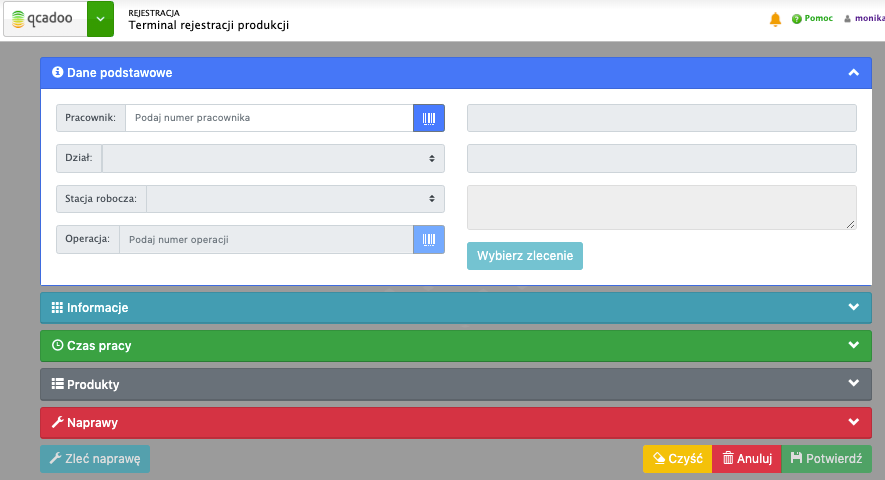
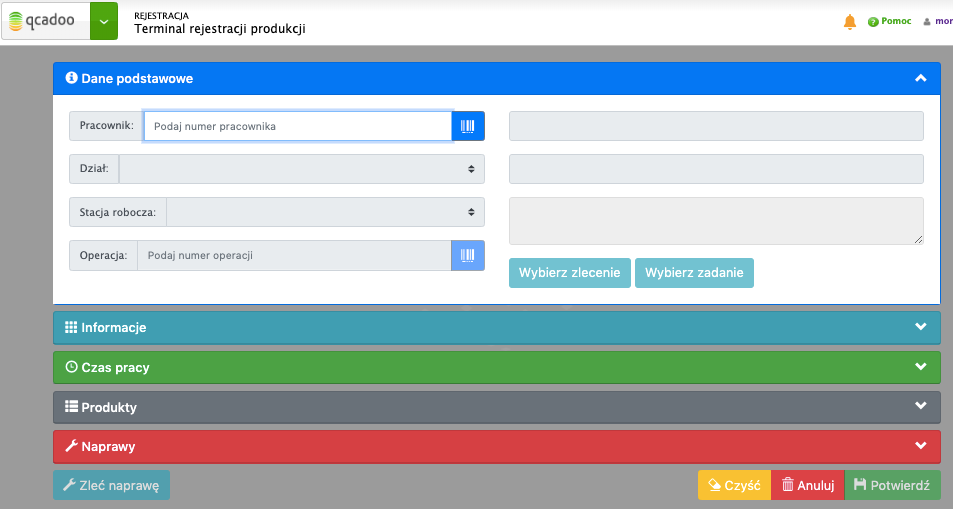
add processes and operational tasks

diff --git a/pages/przykladowe-procesy/zuzycie-materialow.md b/pages/przykladowe-procesy/zuzycie-materialow.md
@@ -1,0 +1,86 @@
+---
+title: "Zużycie materiałów pod zlecenie produkcyjne"
+permalink: zuzycie-materialow.html 
+---
+
+Materiały zużywane w trakcie produkcji są często sporym narzutem kosztowym całego procesu. Często zarządzanie materiałami stanowi nie lada wyzwanie - nie wiadomo jakie surowce będą potrzebne, na kiedy, gdzie należy je wydać, kto i ile zużył i ile w sumie nas to kosztowało. Sporo tematów do opanowania. Na szczęście qcadoo MES wesprze Cię w każdym elemencie.
+
+Opisany proces zakłada, że magazyn surowców i magazyny produkcyjne są odseparowane. Zanim pracownik produkcyjny rozpocznie prace - magazynier przesuwa odpowiednie surowce na dział. Posłużą do tego wydania wewnętrzne - w parametrach ustawione są takie wartości:
+
+{% include lightbox.html file="procesyZuzycieMaterialowParametryWydan.png" alt="Parametry wydań wewnętrznych" caption="Parametry wydań wewnętrznych" %}
+
+Zacznijmy zatem przykład od ustalenia jakie zlecenia produkcyjne będziesz wykonywać. [Lista otwartych zleceń](/planowanie-zlecen) jest następująca:
+
+{% include lightbox.html file="procesyZuzycieMaterialowListaZlecen.png" alt="Lista zleceń produkcyjnych" caption="Lista otwartych produkcyjnych" %}
+
+Do tych zleceń [potrzebne będą następujące surowce](/pokrycie-zapotrzebowania):
+
+{% include lightbox.html file="procesyZuzycieMaterialowPokrycie.png" alt="Lista potrzebnych do produkcji surowców" caption="Lista potrzebnych do produkcji surowców" %}
+
+Widać, że masz wystarczającą ilość produktów, aby zacząć realizację zleceń. Skąd magazynier ma wiedzieć **jakie produkty i na kiedy** ma przygotować?
+
+Wygenerujemy dla Ciebie wydanie wewnętrzne na tyle dni przed rozpoczęciem zlecenia, ile ustawisz w [parametrach](/parametry-zaopatrzenie.html#wydania-wewnętrzne). Najwygodniejszą listą do pracy magazyniera jest widok [produktów do wydania wewnętrznego](/produkty-do-wydania-wewnetrznego).
+
+{% include lightbox.html file="procesyZuzycieMaterialowProduktyDoWydaniaWewn.png" alt="Produkty do wydania wewnętrznego" caption="Produkty do wydania wewnętrznego" %}
+
+Użyj filtrowania po magazynie i dacie - a dowiesz się co, gdzie i w jakiej ilości masz dziś przesunąć. 
+
+{% include callout.html content="Jeśli w profilu użytkownika przypiszesz sobie magazyn, to w liście od razu będą widoczne planowane przesunięcia z Twojego magazynu" type="warning" %}
+
+Możesz **posortować / przefiltrować po produkcie** - dzięki temu przygotujesz od razu cały materiał pod wszystkie dziś rozpoczynane zlecenia.
+Możesz **posortować / przefiltrować po miejscu składowania** - dzięki temu zminimalizujesz bezcelowe spacery po magazynie.
+Możesz **posortować / przefiltrować po magazynie docelowym** - dzięki temu od razu możesz przyszykować wózek na dany magazyn i jechać z nim tylko raz.
+Możesz **posortować / przefiltrować po dacie (i godzinie) rozpoczęcia zlecenia** i wydawać w kolejności w jakiej zadania będą realizowane.
+Jak widać - możliwości wiele. Możesz dostowować działanie do swoich potrzeb.
+
+Jak już wiesz co chcesz wydawać i chcesz zarejestrować wydanie, zaznacz produkty w tabeli i kliknij {% include inline_image.html file="przyciskKopiujProduktyDoWydania.png" alt="Kopiuj produkty do wydania" %} **Kopiuj produkty do wydania** i ewentualnie popraw dane (np. ilość - bo przecież nawet jak pod zlecenie potrzebne jest 10 ml farby, to i tak wydasz całą puszkę) i wydaj (używając przycisku {% include inline_image.html file="przyciskWydaj.png" alt="Wydaj" %} **Wydaj**). W efekcie powstaną [dokumenty](/dokumenty) MM lub para WZ - PZ (w zależności od tego co ustawisz w parametrach):
+
+{% include lightbox.html file="procesyZuzycieMaterialowDokument.png" alt="Utworzony dokument MM" caption="Utworzony dokument MM" %}
+
+{% include lightbox.html file="procesyZuzycieMaterialowPozycjeDokumentow.png" alt="Pozycje utworzonego dokumentu MM" caption="Pozycje utworzonego dokumentu MM" %}
+
+a **stany magazynowe zostały odpowiednio ukształtowane**. Magazyn działowy zasilony - produkcja ma z czego wytwarzać wyroby. 
+
+Aby zaewidencjonować **co faktycznie zostało zużyte**, trzeba wprowadzić meldunek - albo wprost z listy [rekordów rejestracji](/rejestracja-produkcji) albo korzystając z [terminala](/terminal). 
+
+{% include lightbox.html file="procesyZuzycieMaterialowRR.png" alt="Zaraportowanie zużytego materiału do zlecenia" caption="Zaraportowanie zużytego materiału do zlecenia" %}
+
+Możesz ręcznie podawać ilość zużytą dla każdego zaplanowanego do zlecenia produktu. Ale możesz też zaznacz [parametr](/parametry-rejestracja-produkcji) Zużycie surowców na podstawie norm, a ilość będzie wyliczona po wprowadzeniu ilości wyprodukowanej (do wyliczeń wykorzystamy dane wprowadzone w technologii). Możesz też użyć przycisku kopiowania ilości planowanej do podanych - przydatne przy założeniu, że całą zleconą ilość produkujesz od razu, bez dzielenia na etapy.
+
+W kolejnym kroku konieczne jest zaakceptowanie rekordu rejestracji - co się stanie? Do podanych zużytych ilości **utworzymy dokument (lub dokumenty) RW**. Od razu zaakceptowane, aktualizujące stan magazynowy.
+
+Dokument RW zawiera informacje o:
+- zużytych produktach,§
+- ilości zużytych produktów,
+- magazynie, z którego nastąpił rozchód,
+- dobranych, na podstawie metody wyceny określonej w magazynie, zasobach,
+- atrybutach zasobu, takich jak: cena, data ważności, data produkcji, nr partii, miejsce składowania, nr palety itp.
+- zleceniu, na rzecz którego realizowane były prace.
+
+{% include lightbox.html file="procesyZuzycieMaterialowPozycjeDokumentowRW.png" alt="Pozycje utworzonego dokumentu RW" caption="Pozycje utworzonego dokumentu RW" %}
+
+Efekty zużycia materiałów możesz prześledzić też z poziomu samego zlecenia produkcyjnego. Wchodząc w {% include inline_image.html file="iconProducts24.png" alt="postęp produkcji" %} **Ilości wyprodukowane/ zużyte** ustalisz co na danym etapie zostało już zużyte i wyprodukowane. 
+
+{% include lightbox.html file="procesyZuzycieMaterialowPostepProdukcji.png" alt="Ogólny postęp produkcji" caption="Ogólny postęp produkcji" %}
+
+Przechodząc krok dalej, w: {% include inline_image.html file="genealogyIcon24.png" alt="szczegółowe zapotrzebowanie" %} **Szczegółowe zapotrzebowanie i postęp** będziesz mógł przeanalizować zużycie z dokładnością do operacji (a także zmienić planowane zużycie, np. wprowadzając zamienniki - ale o tym więcej przeczytasz [tutaj](/zmiana-stanu-zapotrzebowania)).
+
+{% include lightbox.html file="procesyZuzycieMaterialowSzczegoloweZapotrzebowanie.png" alt="Szczegółowe zapotrzebowanie i postęp" caption="Szczegółowe zapotrzebowanie i postęp" %}
+
+O zużytych ilościach surowców pod dane zlecenie wiesz już niemal wszystko. Do pełnego obrazu brakuje Ci jeszcze cen pobranych zasobów. Owszem - analizując dokumenty takie informacje można wyciągnąć. Jednak dane te możesz wyciągnąć też z poziomu zlecenia produkcyjnego. Wejdź w: {% include inline_image.html file="calculateTimeIcon24.png" alt="Przycisk kalkulacji" %} **[Ceny](/ceny-materialow-dla-zlecenia)**
+
+{% include lightbox.html file="procesyZuzycieMaterialowCenyMaterialow.png" alt="Ceny materiałów zużywanyh w zleceniu" caption="Ceny materiałów zużywanyh w zleceniu" %}
+
+Jakie informacje możesz tutaj uzyskać? Przede wszystkim różne ujęcia cen - ustalisz zapisane w [produktach](/produkty) ceny ostatniego zakupy czy średnio ważone, a także faktyczne ceny zasobów zużytych na rzecz danego zlecenia (kolumna: cena dla zlecenia). Wchodząc w szczegóły produktu w tabeli zobaczysz także wystawione dokumenty RW (zarówno w qcadoo jak i w systemie zewnętrznym).
+
+Została do omówienia wisienka na torcie - [rozliczenie produkcji](//rozliczenie-produkcji). W raporcie kosztom materiałów został poświęcony osobny **arkusz Koszty materiałów**:
+
+{% include lightbox.html file="procesyZuzycieMaterialowRozliczenieProdukcjiKosztyMaterialow.png" alt="Koszty materiałów w rozliczeniu produkcji" caption="Koszty materiałów w rozliczeniu produkcji" %}
+
+Dowiesz się tutaj jakie produkty miały być zużyte i w jakich ilościach, wraz z porównaniem faktycznego zużycia zarejestrowanego po produkcji. Ustalisz i porównasz koszt planowany z kosztem rzeczywistym. Wyliczone zostaną też odchylenia ilościowe i wartościowe.
+
+Poniesiony koszt zużycia materiałów będzie wykorzystany w rozliczeniu całkowitych kosztów zlecenia, w arkuszach:
+- rozliczenie do zleceń,
+- rozliczenie z uwzględnieniem komponentów, 
+- rozliczenie do wyrobu.
+

diff --git a/pages/planowanie/planowanie-operacyjne.md b/pages/planowanie/planowanie-operacyjne.md
@@ -1,0 +1,99 @@
+---
+title: "Planowanie operacyjne"
+permalink: planowanie-operacyjne.html 
+---
+
+W qcadoo obsługiwane są dwa podejścia do planowania. Pierwsze zakłada, że planujemy całe [zlecenia produkcyjne](/zlecenia-produkcyjne), przypisując je do [linii](/linie-produkcyjne). W tym podejściu wszystkie operacje wykonywane są po kolei, bez możliwości odłożenia w czasie realizacji części czynności. Drugie podejście zakłada planowanie każdej operacji zlecenia osobno. Operacje przypisywane są do [stacji roboczych](/stacje-robocze) i/lub do [pracowników](/pracownicy). I to one układane są czasowo oraz raportowane. Odzwierciedleniem zaplanowanej operacji jest zadanie operacyjne. Zadanie operacyjne to element planowania operacyjnego. I właśnie o nich będzie opowiadała ta strona dokumentacji.
+
+Aby przejrzeć listę zadań operacyjnych wejdź w **Planowanie > Planowanie operacyjne**:
+
+{% include lightbox.html file="planowaniePlanowanieOperacyjneLista.png" alt="Lista zadań operacyjnych" caption="Lista zadań operacyjnych" %}
+
+Zadania operacyjne mają dwa typy:
+- wykonanie operacji w zleceniu - powiązane jest z konkretną operacją wynikającą z drzewa technologii użytej w zleceniu
+- inne zadanie - jest dodatkowym zadaniem, które powierzamy pracownikowi
+
+Zadania operacyjne będące wykonaniem operacji w zleceniu mogą być wprowadzone na 3 sposoby:
+1. ręcznie
+2. poprzez zatwierdzenie planu na stację i pracownika
+3. poprzez utworzenie planu operacyjnego z kalkulacji czasochłonności zlecenia
+
+Inne zadania mogą być wprowadzane tylko ręcznie.
+
+
+## Ręczne dodawanie zadań operacyjnych
+
+{% include lightbox.html file="planowaniePlanowanieOperacyjneNowe.png" alt="Dodanie nowego zadania operacyjnego" caption="Dodanie nowego zadania operacyjnego" class="float-right" %}
+
+Aby dodać nowe zadanie operacyjne wejdź w Planowanie > Planowanie operacyjne i kliknij {% include inline_image.html file="newIcon24.png" alt="Przycisk Dodaj nowe" %} **Dodaj nowy**. 
+
+Rozpocznij od wskazania **typu zadania** - to on uwarunkuje aktywność pozostałych pól. Jeśli chcesz zaplanować realizację czynności ze zlecenia, to **wskaż _typ = wykonanie operacji w zleceniu_**. Podaj następnie:
+- _zlecenie produkcyjne_ - lista zleceń jest ograniczona do tych raportowanych z dokładnością do operacji. Wskaż to zlecenie, które chcesz rozpisać na zadania operacyjne
+- _operacja w drzewie_ - wskaż operację z technologii, którą używać będziesz we wskazanym wyżej zleceniu. Każda operacja powinna mieć swoje zadanie - aby pracownicy wiedzieli jakie czynności mają zostać wykonane
+- _data rozpoczęcia_ i _data zakończenia_ - zaplanuj w jakim okresie zadanie ma zostać zrealizowane
+- _pracownik_ - możesz wskazać, kto ma się zająć zadaniem
+- _stacja robocza_ - możesz wskazać na jakiej stacji roboczej (czy to maszynie czy stanowisku) zadanie ma być wykonywane
+
+Na podstawie wskazanego zlecenia produkcyjnego uzupełnią się:
+- linia produkcyjna
+- ilości: planowana, wyprodukowana
+- procent wykonania
+
+{% include callout.html content="Jeśli zadanie operacyjne wystawione ręcznie jest przypisane do zlecenia produkcyjnego o statusie oczekujące, to ilości nie będą wypełnione. Uzupełnią się dopiero po akceptacji zlecenia produkcyjnego." type="warning" %}
+
+Na podstawie operacji natomiast uzupełni się:
+- nazwa
+- opis
+
+Numer zadania zostanie nadany automatycznie.
+
+---
+
+{% include lightbox.html file="planowaniePlanowanieOperacyjneNoweInne.png" alt="Dodanie nowego zadania operacyjnego o typie inne zadanie" caption="Dodanie nowego zadania operacyjnego o typie inne zadanie" class="float-right" %}
+
+Jeśli **wprowadzasz zadanie o typie: _inne zadanie_**, to wypełnij następujące pola:
+- _nazwa_ - określ co pracownik ma wykonać
+- _opis_ - możesz wprowadzić szczegółowe informacje o czynności do wykonania
+- _pracownik_ - wskaż kto ma zająć się danym zadaniem
+- _data rozpoczęcia_ i _data zakończenia_ - określ w jakim czasie zadanie ma zostać wykonane.
+
+Numer zadania operacyjnego zostanie nadany automatycznie.
+
+## Dodawanie zadań przez zatwierdzenie planu 
+
+Efektem planu na stację roboczą i pracownika, jest utworzenie zadań operacyjnych. Zadania są odpowiednio ułożone czasowo i mają przypisaną stację roboczą i pracownika. Z poziomu planu tworzą się tylko zadania powiązane ze zleceniem produkcyjnym.
+
+## Dodawanie zadań z poziomu kalkulacji czasochłonności zlecenia
+
+Z poziomu zlecenia produkcyjnego możesz przeprowadzić [kalkulację czasochłonności](/czasochlonnosc-zlecenia). Funkcja przeliczy (na podstawie norm technologii) jak długo będą trwały poszczególne operacje, a także ułoży je czasowo zgodnie z drzewem technologii. Do tak przygotowanych wyliczeń można utworzyć plan operacyjny. Jak tego dokonać?
+
+Wejdź w zlecenie produkcyjne, podaj datę rozpoczęcia i wybierz {% include inline_image.html file="iconProducts24.png" alt="Czasochłonność" %} **Czasochłonność**. Wygeneruj kalkulację i kliknij {% include inline_image.html file="przyciskUtworzZSymulacjiPlanOperacyjny.png" alt="Utwórz plan operacyjny" %} **Utwórz z symulacji plan operacyjny**. Zadania operacyjne zostaną założone.
+
+Czym różnią się zadania operacyjne pochodzące z planu od zadań z czasochłonności zlecenia? Plan na stację i pracownika wyodrębnia zadania do wykonania i przypisuje je do stacji roboczych i pracowników. Ponadto - ustawiając daty realizacji uwzględnia istniejące zadania, dzięki temu unika realizacji wielu zadań w jednym czasie. Natomiast plan operacyjny z kalkulacji czasochłonności ogranicza się do wyodrębnienia operacji i nadania im dat rozpoczęcia i zakończenia, jednak bez próby ustalenia, czy coś w tym samym czasie jest zaplanowane do realizacji. 
+
+## Statusy zadań operacyjnych
+
+Zadania operacyjne mogą przyjmować 4 statusy:
+- oczekujące
+- rozpoczęte
+- zakończone
+- odrzucone
+
+Nowe zadanie otrzymuje status oczekujące. W momencie rozpoczynania zlecenia produkcyjnego statusy wszystkich powiązanych zadań zmieniają się na rozpoczęte. W momencie zakańczania zlecenia produkcyjnego - jego zadania operacyjne również są zakończone. Status odrzucone nadawany jest w momencie odrzucenia planu na stację i pracownika.
+
+Do danej operacji zlecenia produkcyjnego może istnieć tylko jedno zadanie operacyjne o statusie innym niż odrzucone.
+
+---
+
+## Śledzenie postępu produkcji
+
+Wykonanie zadania operacyjnego może być raportowane z poziomu [terminala](/terminal) - wybierając z listy przypisane pracownikowi zadanie, albo z poziomu Rejestracja > [Rejestracja produkcji](/rejestracja-produkcji), wybierając operację zlecenia. Zadeklarowana ilość wyprodukowana będzie widoczna w zadaniu. Spowoduje to ponadto przeliczenie wykonania procentowego.
+
+{% include lightbox.html file="planowaniePlanowanieOperacyjneWykonanoKolor.png" alt="Oznaczenie kolorem wykonania procentowego w zadaniach operacyjnych" caption="Oznaczenie kolorem wykonania procentowego w zadaniach operacyjnych" %}
+
+Kolumna Wykonano % może zostać oznaczona kolorami. Stosujemy trzy kolory:
+- <span style="color:red"> czerwony</span> - oznacza, że jeszcze nic nie zostało wyprodukowane (ilość wyprodukowana pochodząca z zaakceptowanych rekordów rejestracji produkcji to 0),
+- <span style="color:green"> zielony</span> - oznacza, że cała ilość zlecona jest już wyprodukowana (suma ilości wyprodukowanej pochodzącej z zaakceptowanych rekordów rejestracji jest co najmniej taka jak ilość zlecona),
+- <span style="color:yellow"> żółty</span> - oznacza, że praca trwa (czyli mamy już zarejestrowaną ilość wyprodukowaną do tej operacji, ale jest ona nadal mniejsza od ilości zleconej).
+
+Aby kolor się pojawił, zaznacz parametr Oznacz kolorem procent wykonania w Administracja > Parametry > [Zadania operacyjne](/parametry-zadania-operacyjne)

diff --git a/pages/rejestracja-produkcji/terminal.md b/pages/rejestracja-produkcji/terminal.md
@@ -36,12 +36,21 @@ W pierwszym trybie konieczne jest wydrukowanie kart pracy pracownikom. Na karcie
 
 Jeśli zlecenie ma być raportowane zbiorczo (o sposobach raportowania poczytasz m.in. [tutaj](/krok-10-rejestracja-produkcji)) to nie ma znaczenia, która operacja zostanie zeskanowana - każda odwoła się do zlecenia i zaczyta dane z całej technologii. Jeśli raportujecie z dokładnością do operacji to uczul pracowników, że muszą zeskanować tą operację, którą właśnie wykonali.
 
-W drugim trybie rezygnujemy z drukowania kart pracy. Pracownik wybiera zlecenie wprost z terminala, wywołując listę przyciskiem **Wybierz zlecenie**
+W drugim trybie rezygnujemy z drukowania kart pracy. Pracownik wybiera zlecenie lub zadanie wprost z terminala.
+
+Jeśli **plany oparte są o zlecenia produkcyjne** to pracownik może wskazać to aktualnie realizowane wywołując listę przyciskiem **Wybierz zlecenie**
 
 {% include lightbox.html file="rejestracjaTerminalWybierzZlecenie.png" alt="Wybierz zlecenie" caption="Okno wyboru zlecenia produkcyjnego w terminalu" %}
 
 W tym trybie możemy rejestrować tylko zlecenia raportowane zbiorczo. W oknie widoczne są zlecenia wskazanego w terminalu działu. Jeśli dział pusty - widzimy wszystkie zlecenia. "Wszystkie" - czyli te, które są rozpoczęte i zaplanowane na dziś. I znowu: "dziś" - czyli na moment daty rozpoczęcia ustawiony w obszarze _Czas pracy_ w terminalu. 
 Aby zaciągnąć zlecenie do terminala wystarczy je zaznaczyć i kliknąć _Wybierz_. Zlecenia możesz filtrować wpisując dowolny tekst w polu wyszukiwania (prawy górny róg) - program szuka po wszystkich widocznych w tabeli informacjach.
+
+Jeśli natomiast **plany oparte są o zadania operacyjne**, to pracownik wybiera aktualnie realizowaną czynność z listy dostępnej pod przyciskiem **Wybierz zadanie**
+
+{% include lightbox.html file="rejestracjaTerminalWybierzZadanie.png" alt="Wybierz zadanie" caption="Okno wyboru zadania operacyjnego w terminalu" %}
+
+Pracownik widzi swoje zadania operacyjne zaplanowane na daną zmianę (o statusie rozpoczęte). Do tego lista rozszerzana jest o zadania nie przypisane do żadnego pracownika. Domyślnie w oknie zadań widoczne są te, które jeszcze nie zostały w pełni zrealizowane (czyli dla których ilość wyprodukowana jest mniejsza od ilości zleconej). Odznaczając parametr **Nie pokazuj zadań zrealizowanych** lista zostanie poszerzona o zadania zrealizowane, ale nadal ze statusem rozpoczęte. Dzięki temu można dorejestrować produkcję. Aby zaciągnąć zadanie do terminala wystarczy je zaznaczyć i kliknąć _Wybierz_. Na podstawie zadania namierzymy zlecenie i jego operację. I na ich podstawie uzupełnimy pozostałe dane w terminalu. 
+
 
 ## Szczegółowy opis terminala
 

diff --git a/pages/administracja/parametry/parametry-zaopatrzenie.md b/pages/administracja/parametry/parametry-zaopatrzenie.md
@@ -85,7 +85,7 @@ Dostępne są następujące parametry:
 
 Parametry dotyczą zachowania się [stanów minimalnych](/stan-min). 
 
-{% include lightbox.html file="administracjaParametryZaopatrzenieStanMin.png" alt="Parametry stanów minimalnych w pokryciu zapotrzebowania" caption="Parametry stanów minimalnych w pokryciu zapotrzebowania" %}
+{% include lightbox.html file="administracjaParametryZaopatrzenieStanyMin.png" alt="Parametry stanów minimalnych w pokryciu zapotrzebowania" caption="Parametry stanów minimalnych w pokryciu zapotrzebowania" %}
 
 1. **Uwzględniaj zapotrzebowanie w stanie aktualnym** - stany minimalne działają w oparciu o dostępną ilość magazynową. Sprawdzamy, czy to co jest dostępne, jest mniejsze od zdefiniowanego stanu minimalnego. Standardowo ilość dostępna to stan magazynowy pomniejszony o ilość zarezerwowaną. Jednak jeśli zaznaczysz ten parametr będziemy stan aktualny pomniejszać o ilości potrzebne pod istniejące zlecenia produkcyjne, z zadanego poniżej okresu
 

diff --git a/pages/planowanie/planowanie-zlecen/planowanie-zlecen.md b/pages/planowanie/planowanie-zlecen/planowanie-zlecen.md
@@ -64,4 +64,4 @@ Stosujemy trzy kolory:
 - <span style="color:green"> zielony</span> - oznacza, że cała ilość zlecona jest już wyprodukowana (suma ilości wyprodukowanej pochodzącej z zaakceptowanych rekordów rejestracji jest co najmniej taka jak ilość zlecona),
 - <span style="color:yellow"> żółty</span> - oznacza, że praca trwa (czyli mamy już zarejestrowaną ilość wyprodukowaną do tego zlecenia, ale jest ona nadal mniejsza od ilości zleconej).
 
-Aby kolory pojawiły się w kolumnie, trzeba zaznaczyć parametr **Oznacz kolorem procent wykonania** w Administracja > Parametry > Zlecenia > zakładka Główna
+Aby kolory pojawiły się w kolumnie, trzeba zaznaczyć parametr **Oznacz kolorem procent wykonania** w Administracja > Parametry > Zlecenia > [zakładka Główna](/parametry-zlecen#główna)

diff --git a/pages/przykladowe-procesy/przykladowe-procesy.md b/pages/przykladowe-procesy/przykladowe-procesy.md
@@ -8,3 +8,4 @@ Jesteś ciekaw w jaki sposób qcadoo może zrealizować typowe dla Ciebie i Twoj
 Zapoznaj się z następującymi przykładami działania:
 - [realizacja zamówienia klienta](/realizacja-zamowienia-klienta) --> czyli jak wygląda praca w qcadoo w podstawowej ścieżce od momentu wpłynięcia zamówienia sprzedaży aż po zaraportowanie wykonania
 - [zamowienie surowców](/zamowienie-surowcow) --> czyli ustalenie jakich produktów brakuje pod rozpisane zlecenia, zamówienie ich u dostawców aż po przyjęcie dostawy na magazyn
+- [zużycie materiałów pod zlecenie produkcyjne](/zuzycie-materialow) --> czyli w jaki sposób przeprowadzić proces zarządzania materiałami niezbędnymi do produkcji
